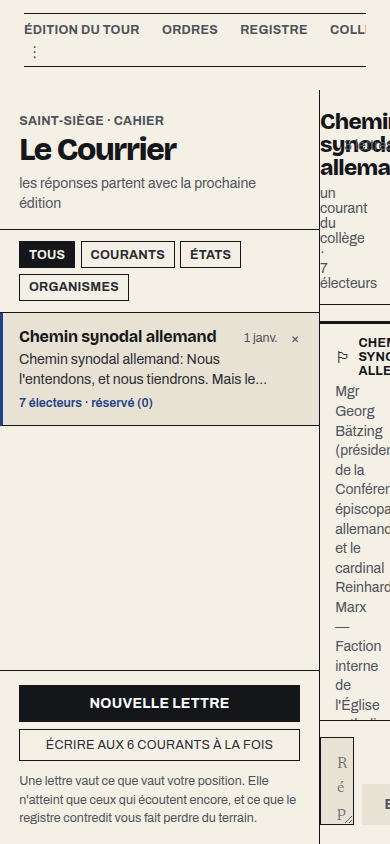
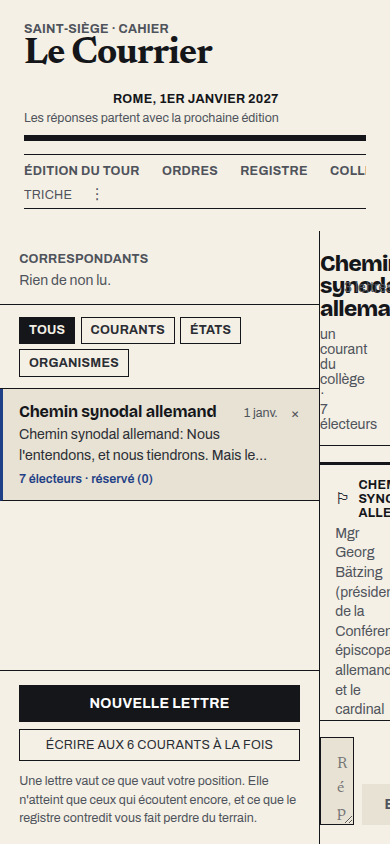
clés : l'écran d'origine est de nouveau atteignable — et il parlait anglais
« Redonne-moi accès à l'écran originel où poser les clés. »

Il ne paraissait qu'une fois. App.jsx lit hasProviderKey() AU MONTAGE et ne
la relit jamais : une clé donnée, l'écran qui explique ce qu'est une clé, où
la prendre et ce qu'on perd sans elle devenait inatteignable — c'est-à-dire
justement le jour où la clé cesse de marcher. Il se rouvre par « Clé », au
bout de la ligne des cahiers, à côté du banc d'essai.

Deux choses trouvées en le vérifiant sur la page réelle plutôt qu'en le
croyant sur parole.

Les crochets vivaient en variables de module. Le banc d'essai marchait
pendant que l'écran des clés restait muet, et j'ai d'abord cru à un module
dédoublé — c'était faux, les deux crochets étaient bien enregistrés. Ils
passent quand même sur une clé unique de globalThis : un module qui se
retrouve en deux exemplaires ne peut plus séparer celui qui POSE de celui
qui LIT, et rien ne garantit que ces deux-là restent empaquetés ensemble.

Et la vraie trouvaille. L'écran s'ouvrait — en anglais : « One thing before
you begin » au-dessus d'une page qui disait « N° 1 · AN 1 DU PONTIFICAT ».
preferredLanguage() lisait la langue du NAVIGATEUR à défaut de choix du
joueur. C'était juste du temps où l'interface était écrite en anglais : le
navigateur était alors le seul indice qu'un joueur français existait. Depuis
que tout le jeu est écrit en français, l'indice s'est retourné contre lui —
sur un navigateur réglé en anglais, et c'est le cas le plus courant du
[…]

diff --git a/src/Game/GameUI/triche.js b/src/Game/GameUI/triche.js
@@ -13,13 +13,41 @@
  * neutre coupe le cycle »), et c'est la même issue ici.
  */
 
-let _ouvrir = null;
+// Les crochets vivent sur globalThis, pas dans une variable de module.
+//
+// Le premier essai les gardait en variables de module, et le banc d'essai
+// marchait pendant que l'écran des clés restait muet : le crochet POSÉ et le
+// crochet LU n'étaient pas le même, parce que le module qui les porte peut se
+// retrouver en deux exemplaires — ses deux lecteurs ne sont pas toujours
+// empaquetés ensemble. Une clé unique sur globalThis ne peut pas se dédoubler.
+const REGISTRE = Symbol.for("saint-siege.crochets");
+const crochets = globalThis[REGISTRE] ?? (globalThis[REGISTRE] = {});
+
 
 /** Posé par le composant monté, retiré à son démontage. */
-export const poserLaTriche = (fn) => { _ouvrir = typeof fn === "function" ? fn : null; };
+export const poserLaTriche = (fn) => { crochets.triche = typeof fn === "function" ? fn : null; };
 
 /** Ouvre le banc d'essai. Sans composant monté, ne fait rien plutôt que lever. */
-export const ouvrirLaTriche = () => { _ouvrir?.(); };
+export const ouvrirLaTriche = () => { crochets.triche?.(); };
 
 /** Si le panneau est atteignable — une page peut ainsi ne pas offrir le bouton. */
-export const laTricheEstAtteignable = () => typeof _ouvrir === "function";
+export const laTricheEstAtteignable = () => typeof crochets.triche === "function";
+
+// ── Et l'écran des clés ──────────────────────────────────────────────────────
+//
+// « Redonne-moi accès à l'écran originel où poser les clés. »
+//
+// FirstRunKey ne paraît qu'une fois : App.jsx lit hasProviderKey() AU MONTAGE et
+// ne le relit jamais. Une fois une clé donnée, l'écran qui explique ce qu'est
+// une clé, où la prendre et ce qu'on perd sans elle devenait inatteignable —
+// alors que c'est précisément l'écran qu'on veut rouvrir le jour où la clé ne
+// marche plus. Même mécanisme que ci-dessus, et pour la même raison : la ligne
+// des cahiers ne peut pas remonter jusqu'à l'état de App.jsx.
+/** Posé par App.jsx au montage, retiré à son démontage. */
+export const poserLEcranDesCles = (fn) => { crochets.cles = typeof fn === "function" ? fn : null; };
+
+/** Rouvre l'écran des clés. Sans App monté, ne fait rien plutôt que lever. */
+export const ouvrirLEcranDesCles = () => { crochets.cles?.(); };
+
+/** Si l'écran est atteignable — une page peut ainsi ne pas offrir le bouton. */
+export const lEcranDesClesEstAtteignable = () => typeof crochets.cles === "function";

diff --git a/src/runtime/i18n.test.js b/src/runtime/i18n.test.js
@@ -1,0 +1,50 @@
+/*! Saint-Siège — la langue d'un joueur qui n'a rien choisi. */
+import assert from "node:assert/strict";
+import test from "node:test";
+import fs from "node:fs";
+import path from "node:path";
+import { fileURLToPath } from "node:url";
+import { DEFAULT_LANGUAGE, preferredLanguage } from "./i18n.js";
+
+const ICI = path.dirname(fileURLToPath(import.meta.url));
+
+// Mesuré sur la page réelle : l'écran des clés rendait « One thing before you
+// begin » pendant que le reste de la page disait « N° 1 · AN 1 DU PONTIFICAT ».
+//
+// preferredLanguage() lisait la langue du NAVIGATEUR à défaut de choix. C'était
+// juste du temps où l'interface était écrite en anglais — le navigateur était
+// alors le seul indice qu'un joueur français existait. Depuis que tout le jeu
+// est écrit en français, l'indice s'est retourné : sur un navigateur réglé en
+// anglais, et c'est le cas le plus courant du monde, le tout premier écran
+// s'affichait en anglais devant une interface entièrement française.
+const memoire = new Map();
+globalThis.localStorage = {
+  getItem: (k) => (memoire.has(k) ? memoire.get(k) : null),
+  setItem: (k, v) => memoire.set(k, String(v)),
+  removeItem: (k) => memoire.delete(k),
+};
+
+test("sans choix du joueur, c'est la langue du jeu qui parle", () => {
+  memoire.clear();
+  assert.equal(DEFAULT_LANGUAGE, "fr", "la langue du jeu est celle dans laquelle il est écrit");
+  assert.equal(preferredLanguage(), "fr", "rien de choisi : le jeu parle sa langue");
+
+  // Un joueur qui CHOISIT l'anglais l'obtient : c'est son choix, pas une
+  // devinette faite sur son navigateur.
+  memoire.set("ui_language", "en");
+  assert.equal(preferredLanguage(), "en", "un choix explicite l'emporte");
+
+  memoire.delete("ui_language");
+  assert.equal(preferredLanguage(), "fr", "et son retrait rend la parole au jeu");
+});
+
+test("le navigateur ne décide plus de la langue", () => {
+  // Le stubber ici est impossible — `navigator` n'a qu'un accesseur en lecture
+  // sous Node — et ce serait de toute façon la mauvaise épreuve : ce qu'il faut
+  // garantir, c'est que cette fonction ne le CONSULTE plus du tout.
+  const source = fs.readFileSync(path.join(ICI, "i18n.js"), "utf8");
+  const debut = source.indexOf("export const preferredLanguage");
+  assert.ok(debut > 0, "la fonction existe");
+  const corps = source.slice(debut, source.indexOf("\n};", debut));
+  assert.ok(!/navigator/.test(corps), "preferredLanguage ne lit plus le navigateur");
+});

diff --git a/src/runtime/i18n.js b/src/runtime/i18n.js
@@ -118,28 +118,34 @@ export const getStoredLanguage = () => {
 };
 
 /**
- * The language to speak to somebody who has never chosen one: their browser's,
- * falling back to the authored language.
+ * La langue à parler à quelqu'un qui n'en a jamais choisi : celle du jeu.
  *
- * It matters for exactly the screens shown BEFORE a player has set anything —
- * the front door and the outage banner. Neither can be machine-translated
- * (there is no key yet, or the model is precisely what is unreachable), so both
- * carry hand-written text per language. Reading only the stored setting meant a
- * French player's very first screen was the one screen left in English.
+ * Elle décide des trois écrans qui paraissent AVANT tout choix — la porte
+ * d'entrée, l'écran des clés, le bandeau de panne. Aucun des trois ne peut
+ * passer par le traducteur (il n'y a pas encore de clé, ou le modèle est
+ * précisément ce qui est injoignable), d'où leurs tables écrites à la main.
+ *
+ * Cette fonction lisait la langue du NAVIGATEUR à défaut de choix. C'était juste
+ * du temps où l'interface était écrite en anglais : le navigateur était alors le
+ * seul indice qu'un joueur français existait. Depuis que tout le jeu est écrit
+ * en français, l'indice s'est retourné contre lui — sur un navigateur réglé en
+ * anglais, et c'est le cas de la plupart, le tout premier écran du jeu
+ * s'affichait en anglais devant une interface entièrement française. Mesuré :
+ * l'écran des clés rendait « One thing before you begin » là où tout le reste
+ * de la page disait « N° 1 · AN 1 DU PONTIFICAT ».
+ *
+ * Le choix du joueur l'emporte toujours ; à défaut, c'est la langue du jeu. Le
+ * navigateur ne décide plus de rien : il ne sait pas dans quelle langue ce jeu
+ * est écrit, et les tables par langue servent celui qui a CHOISI la sienne.
  */
 export const preferredLanguage = () => {
   try {
     const stored = localStorage.getItem(STORAGE_KEY);
     if (stored && stored.trim()) return stored.trim();
   } catch {
-    // No storage available: fall through to what the browser reports.
+    // Pas de stockage : la langue du jeu, comme pour un joueur qui n'a rien choisi.
   }
-  try {
-    const fromBrowser = (navigator?.languages?.[0] || navigator?.language || "").split(/[-_]/)[0];
-    return fromBrowser || DEFAULT_LANGUAGE;
-  } catch {
-    return DEFAULT_LANGUAGE;
-  }
+  return DEFAULT_LANGUAGE;
 };
 
 const writeLocalLanguage = (code) => {

diff --git a/index.html b/index.html
@@ -7,25 +7,19 @@
          réécrit les nœuds de texte sous React, qui ne retrouve plus les siens et
          fait tomber la page entière sur « removeChild ». Rien à traduire ici. -->
     <meta name="google" content="notranslate" />
-    <!-- Mesure d'audience.
+    <!-- Mesure d'audience — la propriété de CE jeu.
 
-         Ce fichier chargeait G-H9EQ4JFZXZ : la propriété Google Analytics DE
-         L'AMONT, héritée du fork. Chaque visiteur de ce jeu était donc compté
-         dans le compte de quelqu'un d'autre, sans que personne ici puisse ni
-         lire ces chiffres ni les effacer. C'était une fuite, pas un réglage.
-
-         Il est retiré. Pour remettre le vôtre, décommentez ces deux blocs et
-         remplacez G-XXXXXXXXXX par votre identifiant de mesure — il se lit dans
-         Google Analytics, Admin › Flux de données › votre flux web.
-
-    <script async src="https://www.googletagmanager.com/gtag/js?id=G-XXXXXXXXXX"></script>
+         Ce fichier chargeait G-H9EQ4JFZXZ : celle de l'amont, héritée du fork.
+         Chaque visiteur était donc compté dans le compte de quelqu'un d'autre,
+         que personne ici ne peut ni lire ni effacer. C'était une fuite, pas un
+         réglage. Elle est remplacée par celle de François. -->
+    <script async src="https://www.googletagmanager.com/gtag/js?id=G-V2BR97YN1Z"></script>
     <script>
       window.dataLayer = window.dataLayer || [];
       function gtag(){dataLayer.push(arguments);}
       gtag('js', new Date());
-      gtag('config', 'G-XXXXXXXXXX');
+      gtag('config', 'G-V2BR97YN1Z');
     </script>
-    -->
     <link rel="icon" type="image/svg+xml" href="/keys.svg" />
     <meta name="viewport" content="width=device-width, initial-scale=1.0, maximum-scale=1.0, user-scalable=no, viewport-fit=cover" />
     <meta name="theme-color" content="#0b1020" />

diff --git a/src/Game/GameUI/navigation.jsx b/src/Game/GameUI/navigation.jsx
@@ -11,7 +11,7 @@
  */
 import React from "react";
 import { openLibraryTab } from "./libraryBar.jsx";
-import { ouvrirLaTriche } from "./triche.js";
+import { ouvrirLEcranDesCles, ouvrirLaTriche } from "./triche.js";
 
 export const BarreDesCahiers = ({ sections, current, onSelect, apercu = "" }) => (
   <nav
@@ -64,6 +64,27 @@ export const BarreDesCahiers = ({ sections, current, onSelect, apercu = "" }) =>
           {apercu}
         </span>
       )}
+      {/* L'écran des clés. Il ne paraissait qu'au tout premier lancement — et
+          c'est le jour où la clé cesse de marcher qu'on veut le relire. */}
+      <button
+        type="button"
+        onClick={() => ouvrirLEcranDesCles()}
+        title="Rouvrir l'écran des clés"
+        style={{
+          background: "none",
+          border: 0,
+          color: "var(--oh-text-dim)",
+          cursor: "pointer",
+          fontFamily: "var(--oh-font-label)",
+          fontSize: "var(--oh-t-2xs)",
+          letterSpacing: "var(--oh-label-track)",
+          lineHeight: 1,
+          padding: 0,
+          textTransform: "var(--oh-label-case)",
+        }}
+      >
+        Clé
+      </button>
       {/* Le banc d'essai. Il vit derrière les Réglages, eux-mêmes derrière un
           bouton que le journal ne montre pas : depuis que la feuille part du
           bord de l'écran, il n'y avait plus d'endroit d'où l'atteindre en

diff --git a/src/App.jsx b/src/App.jsx
@@ -7,6 +7,7 @@ import UI from "./Game/GameUI/main.jsx";
 const MapEditor = lazy(() => import("./Editor/MapEditor.jsx"));
 import StartupScreen from "./runtime/StartupScreen.jsx";
 import FirstRunKey, { hasProviderKey } from "./runtime/FirstRunKey.jsx";
+import { poserLEcranDesCles } from "./Game/GameUI/triche.js";
 import { HAS_MAP } from "./runtime/edition.js";
 import Welcome from "./runtime/Welcome.jsx";
 import ErrorBoundary from "./runtime/ErrorBoundary.jsx";
@@ -45,6 +46,15 @@ function GameApp() {
   const worldIdleRef = useRef(false);
   // Read once at mount: a player who has already given a key never sees the door.
   const [needsKey, setNeedsKey] = useState(() => !hasProviderKey());
+  // L'écran des clés ne paraissait qu'une fois, au tout premier lancement : la
+  // ligne ci-dessus lit hasProviderKey() AU MONTAGE et ne la relit jamais. Le
+  // joueur pouvait donc ne plus jamais revoir l'écran qui explique ce qu'est
+  // une clé, où la prendre et ce qu'on perd sans elle — c'est-à-dire le jour où
+  // il en a le plus besoin. Il se rouvre depuis la ligne des cahiers.
+  useEffect(() => {
+    poserLEcranDesCles(() => setNeedsKey(true));
+    return () => poserLEcranDesCles(null);
+  }, []);
   const [entered, setEntered] = useState(false);
   const [startupState, setStartupState] = useState(createInitialStartupState);
   const [isReady, setIsReady] = useState(false);

diff --git a/src/Game/GameUI/college.jsx b/src/Game/GameUI/college.jsx
@@ -227,12 +227,15 @@ export const College = ({ nav = null }) => {
         );
     }
 
+    // Un filtre actif s'imprime à l'encre, comme ceux du Courrier. Il était le
+    // seul aplat bleu de cette page ; deux cahiers du même journal marquaient
+    // leur onglet actif de deux façons différentes.
     const chip = (label, active, onClick) => (
         <button type="button" onClick={onClick} key={label}
         style={{
-            background: active ? "var(--oh-accent)" : "transparent",
-            border: `1px solid ${active ? "var(--oh-accent)" : "var(--oh-line)"}`,
-            color: active ? "var(--oh-on-accent)" : "var(--oh-text)",
+            background: active ? "var(--oh-text-strong)" : "transparent",
+            border: `1px solid ${active ? "var(--oh-text-strong)" : "var(--oh-line)"}`,
+            color: active ? "var(--oh-plate)" : "var(--oh-text)",
             cursor: "pointer", fontFamily: "var(--oh-font-label)", fontSize: "var(--oh-t-2xs)",
             letterSpacing: "var(--oh-label-track)", padding: "0.3rem 0.7rem", textTransform: "uppercase",
         }}>{label}</button>

diff --git a/src/runtime/designTokens.test.js b/src/runtime/designTokens.test.js
@@ -253,7 +253,12 @@ test("aucun tiers ne mesure ce jeu, et la carte de partage est la sienne", () =>
   const brut = fs.readFileSync(path.resolve(SRC, "..", "index.html"), "utf8");
   const actif = brut.replace(/<!--[\s\S]*?-->/g, "");
 
-  assert.ok(!/googletagmanager|gtag\(/.test(actif), "aucune balise de mesure active dans index.html");
+  // La règle n'est pas « aucune mesure » : c'est « aucun TIERS ». Ce jeu porte
+  // maintenant la propriété de son auteur, et c'est celle de l'amont qui ne doit
+  // jamais revenir — ni elle, ni aucune autre qu'on n'aurait pas choisie.
+  const identifiants = [...actif.matchAll(/G-[A-Z0-9]{6,}/g)].map((m) => m[0]);
+  assert.deepEqual([...new Set(identifiants)], ["G-V2BR97YN1Z"], "une seule propriété mesure ce jeu, celle de son auteur");
+  assert.ok(!actif.includes("G-H9EQ4JFZXZ"), "celle de l'amont ne revient pas");
   for (const amont of ["Pax Historia", "Open-Historia", "Open Historia"]) {
     assert.ok(!actif.includes(amont), `la carte de partage ne nomme plus l'amont (${amont})`);
   }

diff --git a/src/Game/GameUI/bulletin.jsx b/src/Game/GameUI/bulletin.jsx
@@ -658,9 +658,11 @@ const Press = ({ game, world, actions, focus, onPrinted }) => {
                 disabled={running}
                 onClick={() => setChosen(span.days)}
                 style={{
-                    background: active ? "var(--oh-accent)" : "transparent",
-                    border: `1px solid ${active ? "var(--oh-accent)" : "var(--oh-line)"}`,
-                    color: active ? "var(--oh-on-accent)" : "var(--oh-text)",
+                    // À l'encre, comme les filtres du Collège et du Courrier :
+                    // le journal ne marque pas ses choix en couleur.
+                    background: active ? "var(--oh-text-strong)" : "transparent",
+                    border: `1px solid ${active ? "var(--oh-text-strong)" : "var(--oh-line)"}`,
+                    color: active ? "var(--oh-plate)" : "var(--oh-text)",
                     cursor: running ? "default" : "pointer",
                     fontFamily: "var(--oh-font-label)",
                     fontSize: "var(--oh-t-2xs)",

diff --git a/design/rendu/mobile/INDEX.md b/design/rendu/mobile/INDEX.md
@@ -1,6 +1,6 @@
 # Rendu réel — mobile (390×844)
 
-Capturé le 2026-09-11 14:25 · commit 5fe9890 · source http://localhost:4173
+Capturé le 2026-09-11 15:09 · commit 33d9c88 · source http://localhost:4173
 
 Ces images sont le rendu réel du jeu dans un navigateur, pas une maquette.
 Une session sans navigateur (Claude Design) doit les lire avant de juger le graphisme.
@@ -10,16 +10,16 @@ Une session sans navigateur (Claude Design) doit les lire avant de juger le grap
 - `01-portail.png` — capturé, 43 Ko
 - `02-cle-api.png` — capturé, 90 Ko
 - `03-accueil.png` — capturé, 472 Ko
-- `04-habemus-papam.png` — capturé, 91 Ko
+- `04-habemus-papam.png` — capturé, 92 Ko
 - `05-edition-du-tour.png` — capturé, 226 Ko
 - `06-ordres.png` — capturé, 72 Ko
-- `07-registre.png` — capturé, 92 Ko
+- `07-registre.png` — capturé, 93 Ko
 - `08-college.png` — capturé, 126 Ko
 - `09-caisses.png` — capturé, 74 Ko
-- `10-correspondance.png` — capturé, 72 Ko
-- `11-courrier-ouvert.png` — capturé, 65 Ko
+- `10-correspondance.png` — capturé, 73 Ko
+- `11-courrier-ouvert.png` — capturé, 68 Ko
 
-Total du lot : 1424 Ko.
+Total du lot : 1430 Ko.
 
 ## Polices
 
@@ -33,7 +33,6 @@ Toutes les polices annoncées par les tokens sont réellement dessinées ici.
 
 ## Anomalies relevées pendant la capture
 
-- réseau : www.googletagmanager.com
 - réseau : open-historia-registry.nichojkrol.workers.dev
 - réseau : api.github.com
 

diff --git a/design/rendu/bureau/INDEX.md b/design/rendu/bureau/INDEX.md
@@ -1,6 +1,6 @@
 # Rendu réel — bureau (1440×900)
 
-Capturé le 2026-09-11 14:42 · commit 4bd12de · source http://localhost:4173
+Capturé le 2026-09-11 15:07 · commit 33d9c88 · source http://localhost:4173
 
 Ces images sont le rendu réel du jeu dans un navigateur, pas une maquette.
 Une session sans navigateur (Claude Design) doit les lire avant de juger le graphisme.
@@ -33,7 +33,6 @@ Toutes les polices annoncées par les tokens sont réellement dessinées ici.
 
 ## Anomalies relevées pendant la capture
 
-- réseau : www.googletagmanager.com
 - réseau : open-historia-registry.nichojkrol.workers.dev
 - réseau : api.github.com
 
